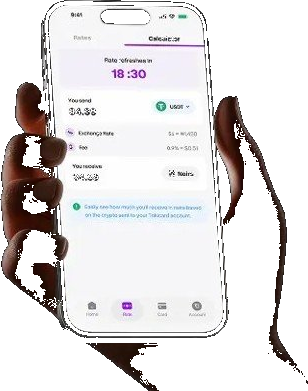
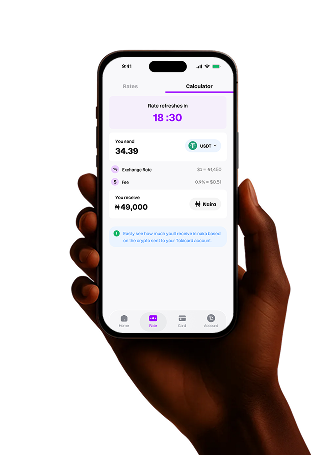
worked on  the works

diff --git a/src/app/App.tsx b/src/app/App.tsx
@@ -30,14 +30,14 @@ const Logo = () => (
 );
 
 const AppStoreBadge = ({ type }: { type: "apple" | "google" }) => (
-  <button className="flex items-center gap-3 btn bg-white border border-gray-100 rounded-2xl md:px-6 md:py-2 shadow-sm hover:shadow-md transition-shadow">
+  <button className="flex items-center gap-3 btn bg-white border border-gray-100 rounded-2xl md:px-6 md:py-2 shadow-sm hover:shadow-md transition-shadow ">
     {type === "apple" ? (
       <>
         <svg className="w-8 h-8" viewBox="0 0 384 512">
           <path d="M318.7 268.7c-.2-36.7 16.4-64.4 50-84.8-18.8-26.9-47.2-41.7-84.7-44.6-35.5-2.8-74.3 20.7-88.5 20.7-15 0-49.4-19.7-76.4-19.7C63.3 141.2 4 184.8 4 273.5q0 39.3 14.4 81.2c12.8 36.7 59 126.7 107.2 125.2 25.2-.6 43-17.9 75.8-17.9 31.8 0 48.3 17.9 76.4 17.9 48.6-.7 90.4-82.5 102.6-119.3-65.2-30.7-61.7-90-61.7-91.9zm-56.6-164.2c27.3-32.4 24.8-61.9 24-72.5-24.1 1.4-52 16.4-67.9 34.9-17.5 19.8-27.8 44.3-25.6 71.9 26.1 2 49.9-11.4 69.5-34.3z" />
         </svg>
        <div className="text-left whitespace-nowrap">
-                  <div className="text-xs text-gray-600">Download on the</div>
+                  <div className="text-xs text-gray-600 tinyfont">Download on the</div>
                   <div className="text-sm font-semibold text-gray-900">App Store</div>
                 </div>
       </>
@@ -58,7 +58,7 @@ const AppStoreBadge = ({ type }: { type: "apple" | "google" }) => (
           <p className="text-lg font-bold text-black leading-tight">Google Play</p>
         </div> */}
          <div className="text-left whitespace-nowrap">
-                  <div className="text-xs text-gray-600">GET IT ON</div>
+                  <div className="text-xs text-gray-600 tinyfont">GET IT ON</div>
                   <div className="text-sm font-semibold text-gray-900">Google Play</div>
                 </div>
       </>
@@ -163,8 +163,8 @@ const LightSection = () => (
         </div>
 
         <div className="max-w-lg   sendmoneydiv">
-          <h3 className="text-3xl md:text-5xl  mb-6 leading-tight sendmoneyhr">Send money <br className="mobile-only"/> to loved ones <br className="mobile-only"/> in an instant.</h3>
-          <p className="text-gray-500 mb-12 text-lg sendmoneytext">Crypto shouldn't be complicated. We remove friction so you can spend your crypto with ease.</p>
+          <h3 className="text-3xl md:text-5xl mb-2 md:mb-6 leading-tight sendmoneyhr">Send money <br className="mobile-only"/> to loved ones <br className="mobile-only"/> in an instant.</h3>
+          <p className="text-gray-500 mb-12 text-lg sendmoneytext">Crypto shouldn't be complicated. We remove friction <br className="md:d-none"/> so you can spend your crypto with ease.</p>
           <img 
                   src={familyman}
                     alt="People using app" 
@@ -218,17 +218,17 @@ const LightSection = () => (
 // --- Sub-components for DarkSection ---
 
 const DarkSection = () => (
-  <section className="py-16 md:py-32 px-2 md:px-6 mx-2 md:mx-0 bg-[#0a0a0a] text-white overflow-hidden rounded-[1rem] md:rounded-[3rem] ">
-    <div className="max-w-7xl mx-auto darkthemetwo px-2 md:px-16 darkthemetwo">
+  <section className="py-16 md:py-16  px-2 md:px-6 mx-2 md:mx-0 bg-[#0a0a0a] text-white overflow-hidden rounded-[1rem] md:rounded-[3rem] ">
+    <div className="max-w-7xl mx-auto px-2 md:px-16 ">
       <div className="text-center mb-8 md:mb-24">
         <h2 className="text-3xl md:text-5xl font-bold mb-6 ">And that is not all</h2>
         <p className="text-gray-400 max-w-lg mx-auto text-center ">Your Tokicard wallet is packed with neat features that further assist you in <br className="md:d-none"/> operating your daily finances</p>
       </div>
 
-      <div className="bg-[#141414] rounded-[3rem] p-4 md:p-16 mb-8 border border-white/5 relative overflow-hidden group">
-        <div className="grid md:grid-cols-2 gap-12 items-center">
+      <div className="bg-[#141414] rounded-[1rem] md:rounded-[3rem] p-4 md:p-16 mb-8 border border-white/5 relative overflow-hidden group">
+        <div className="grid md:grid-cols-2 md:gap-12 items-center ratefeaturediv ">
           <div className="ratefeature">
-            <h5 className="text-1xl md:text-2xl font-bold mb-8 leading-tight text-[#A0A0A0] myfont ratefeatureh">
+            <h5 className="text-1xl md:text-2xl font-bold md:mb-8 leading-tight text-[#A0A0A0] myfont ratefeatureh mt-4 md:mt-0">
               Our rate feature helps you check and compare token prices quickly so you always get the <span className="text-[#ffffff]">best deal.</span>
             </h5>
            
@@ -241,7 +241,7 @@ const DarkSection = () => (
       </div>
 
       <div className="grid md:grid-cols-2 gap-8">
-        <div className="bg-[#141414] rounded-[3rem] p-10 border border-white/5 group overflow-hidden">
+        <div className="bg-[#141414] rounded-[1rem] md:rounded-[3rem] p-8 md:p-10 border border-white/5 group overflow-hidden">
           <h4 className="text-2xl font-bold mb-4">Virtual Card</h4>
           <p className="text-gray-400 mb-12">Create virtual cards instantly, load with your local currency, and shop online worldwide.</p>
           <div className="relative ">
@@ -253,8 +253,8 @@ const DarkSection = () => (
           </div>
         </div>
 
-        <div className="bg-[#141414] rounded-[3rem] p-10 border border-white/5 group overflow-hidden flex flex-col justify-between">
-          <div>
+        <div className="bg-[#141414] rounded-[1rem] md:rounded-[3rem] md:p-10 border border-white/5 group overflow-hidden flex flex-col justify-between  p-8">
+          <div >
             <h4 className="text-2xl font-bold mb-4">Commissions</h4>
             <p className="text-gray-400 mb-12">Share Tokicard with others and get rewarded with commissions for every referral.</p>
           </div>
@@ -280,7 +280,7 @@ const DarkSection = () => (
             </div>
             <div className="absolute -bottom-20 left-1/2 -translate-x-1/2 w-full h-40 bg-[#8b2cf5]/20 blur-[60px] rounded-full" />
           </div> */}
-          <motion.div whileHover={{ scale: 1.05, rotate: 2 }} className="comissiondiv">
+          <motion.div whileHover={{ scale: 1.05, rotate: 2 }} className="comissiondiv ">
             <img src={comission} alt="Commissions" className=" object-contain" />
           </motion.div>
         </div>
@@ -293,27 +293,26 @@ const DarkSection = () => (
 
 export default function App() {
   return (
-    <div className=" min-h-screen  text-[#1a1a1a] font-sans selection:bg-[#8b2cf5]/20 overflow-x-hidden w-full py-4 md:py-6">
+    <div className=" min-h-screen  text-[#1a1a1a] font-sans selection:bg-[#8b2cf5]/20 overflow-x-hidden w-full ">
       <div className="fixed inset-0 bg-[radial-gradient(circle_at_center,_var(--tw-gradient-from)_0%,_transparent_100%)] from-[#8b2cf5]/5 to-transparent pointer-events-none " />
 
-      <nav className="fixed top-0 left-0 right-0 z-50 md:mx-8">
-      {/* <nav> */}
-        <div className="max-w-7xl mx-auto px-6 h-20 flex items-center justify-between w-full  py-4 md:py-3">
-          <Logo />
-          <button className="download bg-[#8b2cf5] text-white md:px-8 py-2.5 rounded-full hover:bg-[#7a25d9] transition-all hover:scale-105 active:scale-95 shadow-lg shadow-[#8b2cf5]/20">
-            Download
-          </button>
-        </div>
-      </nav>
+    <nav className="fixed top-0 left-0 right-0 z-50  backdrop-blur-md border-b border-purple-200/30 ">
+  <div className="max-w-7xl mx-auto px-4 md:px-6 h-20 flex items-center justify-between w-full py-4 md:py-3 ">
+    <Logo />
+    <button className="download bg-[#8b2cf5] text-white md:px-8 py-2.5 rounded-full hover:bg-[#7a25d9] transition-all hover:scale-105 active:scale-95 shadow-lg shadow-[#8b2cf5]/20">
+      Download
+    </button>
+  </div>
+</nav>
 
      <main className="pt-30 pb-20 px-6 relative  bg-gradient-to-br from-white to-[#ECDFFB]">
         <div className="max-w-4xl mx-auto text-center mb-8 md:mb-16 relative z-10 better-div">
-        <h1 className="text-3xl md:text-5xl lg:text-5xl font-bold text-gray-900 mb-2 md:mb-4 leading-tight">
+        <h1 className="text-4xl md:text-5xl lg:text-6xl font-boldd betterafrica text-gray-900 mb-2 md:mb-4 leading-tight">
               A Better Way for Africans <br className="mobile-only"/>
                to Spend Crypto
             </h1>
-            <p className="text-sm md:text-base lg:text-lg text-gray-600 max-w-2xl mx-auto mb-8 md:mb-10">
-              A secure and direct way to turn crypto into spendable Naira, built for<br className="hidden md:block" />
+            <p className="text-sm md:text-base lg:text-lg text-gray-600 max-w-2xl mx-auto mb-8 md:mb-10 text-center securedirect mt-8">
+              A secure and direct way to turn crypto into <br className="md:none"/> spendable Naira, built for <br className="hidden md:block" />
               everyday use across Africa
             </p>
           
@@ -340,7 +339,7 @@ export default function App() {
 
     <div className="relative  purplesection">
       {/* Main Purple Section */}
-      <div className="bg-gradient-to-br from-purple-600 to-purple-700 rounded-3xl rounded-[1rem] md:rounded-[3rem] py-16 md:py-32 px-4 md:px-6 mx-2 md:mx-0 ">
+      <div className="bg-gradient-to-br from-purple-600 to-purple-700 rounded-3xl rounded-[1rem] md:rounded-[3rem] py-16 md:py-16 px-4 md:px-6 mx-2 md:mx-0 ">
         <div className="max-w-7xl mx-auto">
           {/* Text Content */}
           <div className="text-center mb-8">
@@ -369,7 +368,7 @@ export default function App() {
           {/* Phone Mockup */}
           <div className="flex justify-center">
             <div className="relative footerimgdiv">
-              {/* Replace this src with your actual phone mockup image */}
+              {/* Repl ace this src with your actual phone mockup image */}
               <img 
                 src={footerimg}
                 alt="Toldcard App" 
@@ -387,7 +386,7 @@ export default function App() {
           <p className="text-sm text-gray-600">
             Copyright © 2026 Toldcard All Rights Reserved
           </p>
-
+          
           {/* Social Icons */}
           <div className="flex items-center gap-4">
             <a href="#" className="text-gray-900 hover:text-purple-600 transition-colors">

diff --git a/src/app/style.css b/src/app/style.css
@@ -21,8 +21,11 @@
     /* border: 2px solid red; */
     height: 500px;
      margin-bottom: -80px;
-    width:75%;
+    width:70%;
 }
+ .betterafrica{
+    font-weight: bold;
+ }
 .better-div{
     /* border: 2px solid red; */
 }
@@ -33,9 +36,10 @@
 .sendmoneytext{
     font-family: 'Times New Roman', Times, serif;
     color:#50555C;
-;
 }
-
+.darkthemediv{
+    /* border: 2px solid red; */
+}
 .darktheme{
     position: relative;
     height: 480px;
@@ -44,7 +48,21 @@
     margin-top: -10px;
     margin-right: -90px;
     margin-bottom: -80px;
-    width: 90%;
+    width: 80%;
+    /* border: 2px solid blue; */
+}
+.darkthemetwoo{
+    border: 2px solid red;
+}
+.darkthree{
+    border: 2px solid blue;
+}
+.securedirect{
+    text-align: center;
+    font-size: 13px;
+    color: #000000B2;
+;
+    font-family: 'Trebuchet MS', 'Lucida Sans Unicode', 'Lucida Grande', 'Lucida Sans', Arial, sans-serif;
 }
 .virtualcard{
     margin-bottom: 5px;
@@ -60,18 +78,22 @@
    position: relative;
    width: 66%;
    bottom: -50px;
+   margin-top: -50px;
 }
 .purplesection{
     margin-top: 40px;
 }
 .footerimgdiv {
     position: relative;
-   margin-bottom: -129px; /* Pulls content up, removing the gap */
+   margin-bottom: -65px; 
    margin-right: -230px;
    /* border: 2px solid red; */
 }
 .footerimgdiv img{
      width: 80%;
+}
+.ratefeaturediv{
+    /* border: 2px solid red; */
 }
 .ratefeature{
     /* border: 2px solid red; */
@@ -81,10 +103,12 @@
     letter-spacing: -3%;
 }
 .card-section{
-    margin-top: 150px;
+    margin-top: 230px;
 }   
 /* For screens 768px and below (mobile) */
-
+.tinyfont{
+    font-size: 9px;
+}
 @media (max-width: 997px) {
   /* styles here */
   .card-section{
@@ -102,7 +126,7 @@
 }
 .footerimgdiv {
     position: relative;
-   margin-bottom: -129px; 
+   margin-bottom: -65px; 
    margin-right: -190px;
    /* border: 2px solid red; */
 }
@@ -113,6 +137,9 @@
 }
 
 @media (max-width: 768px) {
+ .betterafrica{
+    font-weight: bolder;
+ }
   .download{
     padding: 8px 12px;
     font-size: 14px;
@@ -130,10 +157,11 @@
  }
  .iphone-img{
     /* border: 2px solid red; */
-    height: 260px;
+    height: 230px;
      margin-bottom: -80px;
     width:100%;
 }
+
 .iphone-img{
     /* border: 2px solid red; */
     /* height: 300px; */
@@ -143,23 +171,43 @@
 .card-section{
     margin-top: 220px;
 }
+.darkthemediv{
+    /* border: 2px solid blue; */
+}
 .darktheme{
     position: relative;
     height: 380px;
     /* top: 80px; */
-    right: -20px;
-    margin-top: -10px;
-    margin-right: -90px;
+    right: -6px;
+    margin-top: -30px;
+    margin-right: -70px;
     margin-bottom: -30px;
     width: 100%;
+      /* border: 2px solid red; */
 }
 .footerimgdiv {
     position: relative;
-   margin-bottom: -62px; /* Pulls content up, removing the gap */
-   margin-right: -150px;
+    right: -6px;
+    margin-top: -30px;
+    margin-right: -120px;
+    margin-bottom: -64px;
+    width: 100%;
+   
+}
+.footerimgdiv img{
+    /* border: 2px solid red; */
+    
+}
+.btn-divvv{
+    border: 2px solid red;
 }
 .makedeposit{
     padding: 13px;
+}
+.sendmoneytext{
+      font-family: 'Trebuchet MS', 'Lucida Sans Unicode', 'Lucida Grande', 'Lucida Sans', Arial, sans-serif;
+    color:#50555C;
+    font-size: 14px;
 }
 /* .sendmoneyhr{
     border: 2px solid red;
@@ -170,6 +218,7 @@
  .ratefeature h5{
     font-size: 19px;
     letter-spacing: -3%;
+    font-family: 'Trebuchet MS', 'Lucida Sans Unicode', 'Lucida Grande', 'Lucida Sans', Arial, sans-serif;
 }
 }
 .btn-divv{

diff --git a/vite.config.ts b/vite.config.ts
@@ -16,4 +16,8 @@ export default defineConfig({
       '@': path.resolve(__dirname, './src'),
     },
   },
+  server: {
+    host: '0.0.0.0',
+    port: 3000,
+  }
 })
